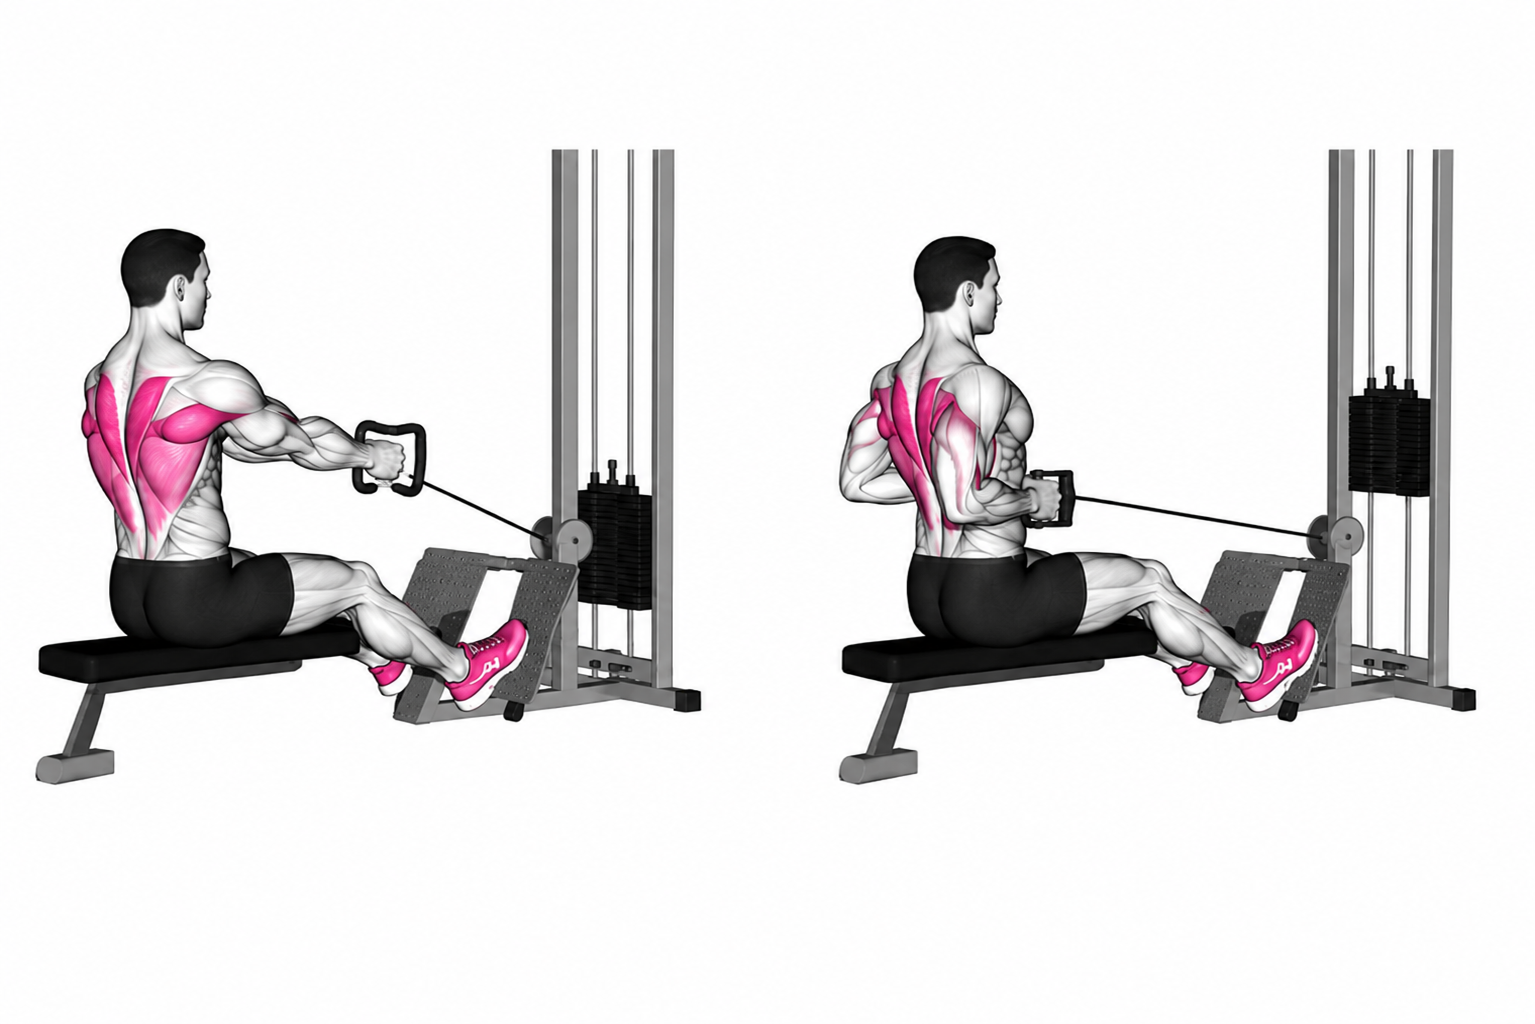
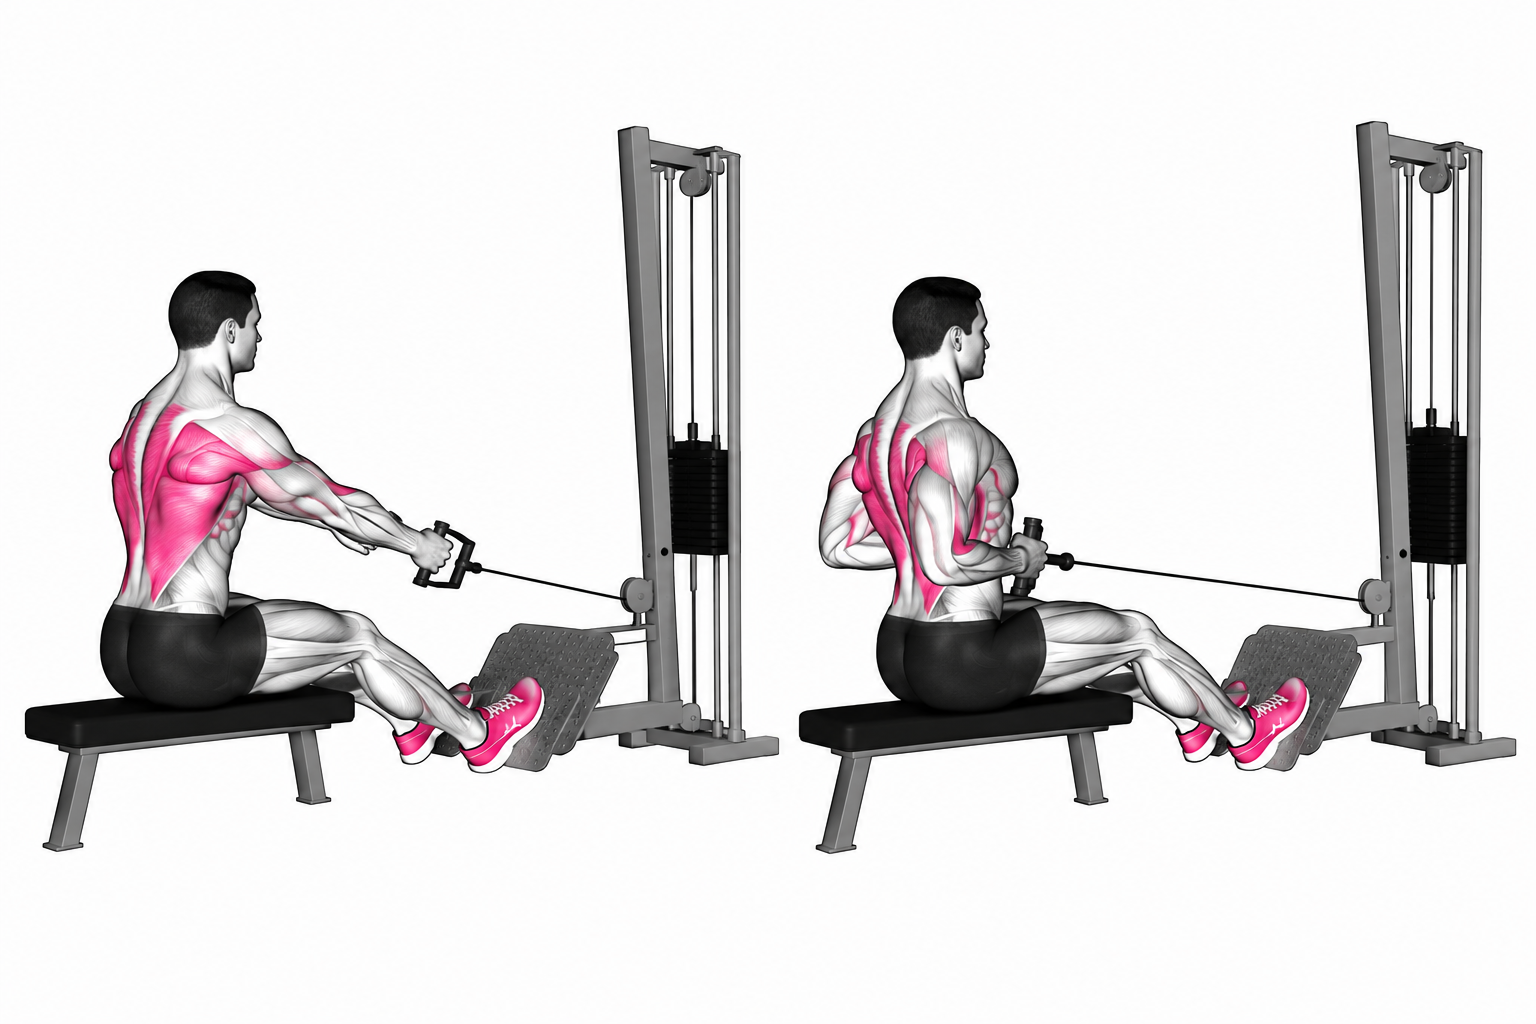
Update tirage horizontal photo, add flexion latérale (obliques) and two pull-over poulie variants (basse/haute) with real photos

Changed region(s): [[0.0, 0.0938, 1.0, 0.8438]]

diff --git a/constants/exercise-library.ts b/constants/exercise-library.ts
@@ -135,6 +135,8 @@ export const EXERCISE_LIBRARY: ExerciseTemplate[] = [
   { id: "rowing-haltere", nom: "Rowing haltère", groupesMusculaires: ["Dos"], materiel: ["Haltères", "Banc"], sports: ["Musculation"], qualitesPhysiques: ["Hypertrophie"], icon: "fitness-outline", pattern: "pull_horizontal", photoUrl: `${IMAGE_BASE}/rowing-haltere.png` },
   { id: "tirage-horizontal", nom: "Tirage horizontal", groupesMusculaires: ["Dos", "Biceps"], materiel: ["Machine"], sports: ["Musculation"], qualitesPhysiques: ["Force", "Hypertrophie"], icon: "fitness-outline", pattern: "pull_horizontal", photoUrl: `${IMAGE_BASE}/tirage-horizontal.png` },
   { id: "pull-over", nom: "Pull-over", groupesMusculaires: ["Dos", "Pectoraux"], materiel: ["Haltères", "Banc"], sports: ["Musculation"], qualitesPhysiques: ["Hypertrophie"], icon: "fitness-outline", pattern: "pull_horizontal", photoUrl: `${IMAGE_BASE}/pull-over.png` },
+  { id: "pull-over-poulie-basse", nom: "Pull-over poulie basse", groupesMusculaires: ["Dos", "Pectoraux"], materiel: ["Machine", "Banc"], sports: ["Musculation"], qualitesPhysiques: ["Hypertrophie"], icon: "fitness-outline", pattern: "pull_horizontal", photoUrl: `${IMAGE_BASE}/pull-over-poulie-basse.png` },
+  { id: "pull-over-poulie-haute", nom: "Tirage bras tendus (poulie haute)", groupesMusculaires: ["Dos"], materiel: ["Machine"], sports: ["Musculation"], qualitesPhysiques: ["Hypertrophie"], icon: "fitness-outline", pattern: "pull_vertical", photoUrl: `${IMAGE_BASE}/pull-over-poulie-haute.png` },
   { id: "pompes", nom: "Pompes", groupesMusculaires: ["Pectoraux", "Triceps"], materiel: ["Poids du corps"], sports: ["Général"], qualitesPhysiques: ["Force", "Endurance"], icon: "body-outline", pattern: "push_horizontal" },
   { id: "dips", nom: "Dips", groupesMusculaires: ["Triceps", "Pectoraux"], materiel: ["Poids du corps"], sports: ["Musculation", "Général"], qualitesPhysiques: ["Force", "Hypertrophie"], icon: "body-outline", pattern: "push_vertical", photoUrl: `${IMAGE_BASE}/dips.png` },
   { id: "butterfly-pecs", nom: "Butterfly (pec deck)", groupesMusculaires: ["Pectoraux"], materiel: ["Machine"], sports: ["Musculation"], qualitesPhysiques: ["Hypertrophie"], icon: "fitness-outline", pattern: "isolation", photoUrl: `${IMAGE_BASE}/butterfly-pecs.png` },
@@ -144,6 +146,7 @@ export const EXERCISE_LIBRARY: ExerciseTemplate[] = [
   { id: "gainage-planche", nom: "Gainage (planche)", groupesMusculaires: ["Abdominaux"], materiel: ["Poids du corps"], sports: ["Général"], qualitesPhysiques: ["Gainage"], icon: "body-outline", pattern: "core", photoUrl: `${IMAGE_BASE}/gainage-planche.png` },
   { id: "hollow-body", nom: "Hollow body hold", groupesMusculaires: ["Abdominaux"], materiel: ["Poids du corps"], sports: ["Général"], qualitesPhysiques: ["Gainage"], icon: "body-outline", pattern: "core" },
   { id: "russian-twist", nom: "Russian twist", groupesMusculaires: ["Abdominaux"], materiel: ["Poids du corps"], sports: ["Général"], qualitesPhysiques: ["Gainage", "Coordination"], icon: "body-outline", pattern: "core_rotation" },
+  { id: "flexion-laterale-obliques", nom: "Flexion latérale (obliques)", groupesMusculaires: ["Abdominaux"], materiel: ["Haltères"], sports: ["Musculation", "Général"], qualitesPhysiques: ["Gainage", "Hypertrophie"], icon: "body-outline", pattern: "core_rotation", photoUrl: `${IMAGE_BASE}/flexion-laterale-obliques.png` },
   { id: "mountain-climbers", nom: "Mountain climbers", groupesMusculaires: ["Abdominaux", "Full body"], materiel: ["Poids du corps"], sports: ["Général"], qualitesPhysiques: ["Endurance", "Coordination"], icon: "walk-outline", pattern: "core_rotation" },
   { id: "burpees", nom: "Burpees", groupesMusculaires: ["Full body"], materiel: ["Poids du corps"], sports: ["Général"], qualitesPhysiques: ["Endurance", "Puissance"], icon: "flash-outline", pattern: "jump" },
   { id: "corde-a-sauter", nom: "Corde à sauter", groupesMusculaires: ["Mollets", "Full body"], materiel: ["Corde"], sports: ["Général"], qualitesPhysiques: ["Endurance", "Coordination"], icon: "sync-outline", pattern: "locomotion" },
